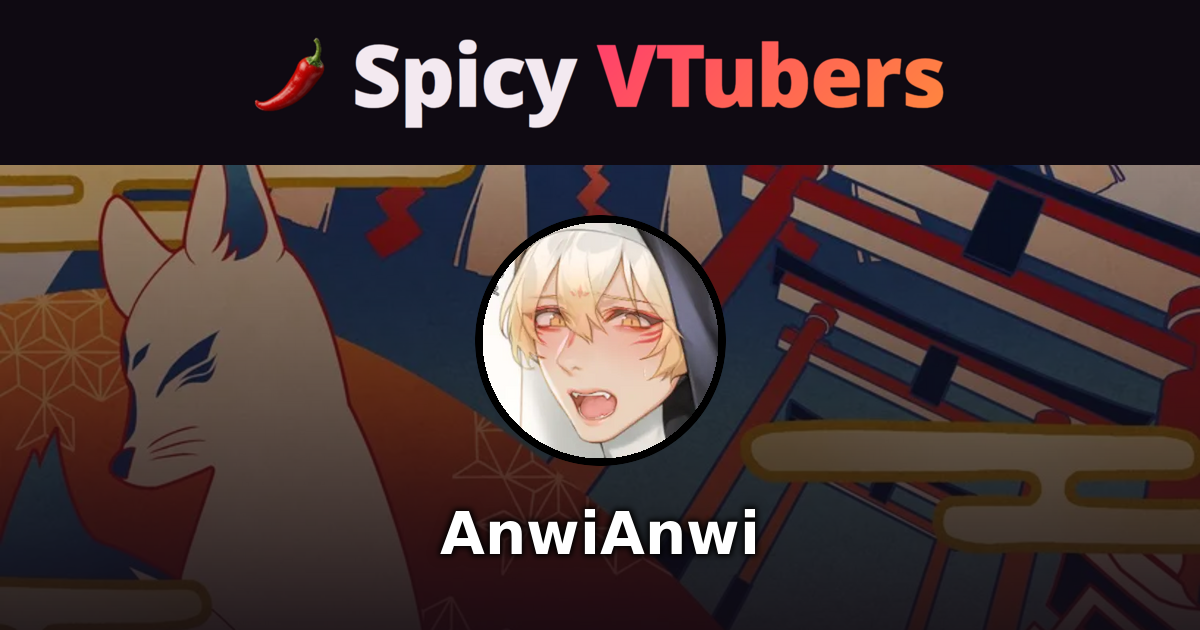
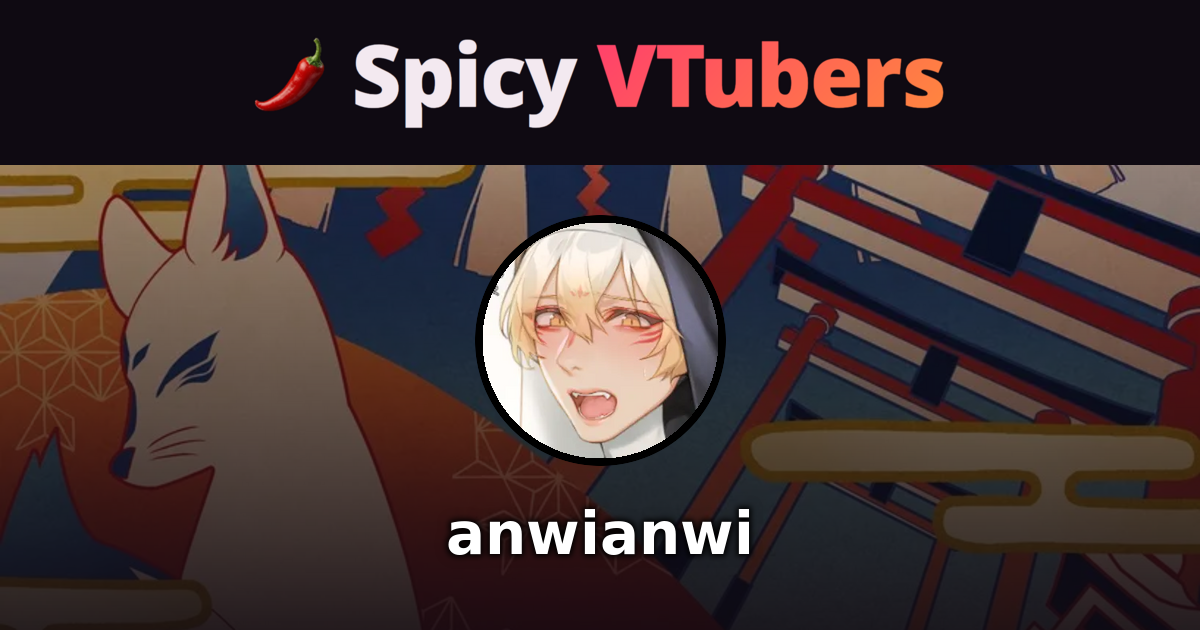
16

Changed region(s): [[0.4933, 0.8143, 0.6475, 0.9048], [0.37, 0.8143, 0.4008, 0.9048]]

diff --git a/c/veiledladyvt/index.html b/c/veiledladyvt/index.html
@@ -3,39 +3,33 @@
 <head>
 <meta charset="UTF-8">
 <meta name="viewport" content="width=device-width, initial-scale=1.0">
-<title>bunyy2b — Spicy VTubers</title>
-<meta name="description" content="Snowbunny doing sillybunny things ❄ 🐰
-My accent is from the land of cute (snow)bunnies.
-Streaming on 18:00 (UTC)/ 14:00 (EDT) 5 times a week (trying, no…">
-<link rel="canonical" href="https://spicyvtubers.com/c/bunyy2b/">
+<title>VeiledLadyVT — Spicy VTubers</title>
+<meta name="description" content="Veiled Lady | 𝕸𝖔𝖙𝖍𝖊𝖗 𝖔𝖋 𝖁𝖆𝖒𝖕𝖎𝖗𝖊𝖘 | Lady of the Sanguine Shrine and professional sleepyhead 🕸🩸🌑">
+<link rel="canonical" href="https://spicyvtubers.com/c/veiledladyvt/">
 
 <!-- Open Graph -->
 <meta property="og:type" content="profile">
 <meta property="og:site_name" content="Spicy VTubers">
-<meta property="og:title" content="bunyy2b — Spicy VTubers">
-<meta property="og:description" content="Snowbunny doing sillybunny things ❄ 🐰
-My accent is from the land of cute (snow)bunnies.
-Streaming on 18:00 (UTC)/ 14:00 (EDT) 5 times a week (trying, no…">
-<meta property="og:url" content="https://spicyvtubers.com/c/bunyy2b/">
-<meta property="og:image" content="https://spicyvtubers.com/c/bunyy2b/og-image.png">
+<meta property="og:title" content="VeiledLadyVT — Spicy VTubers">
+<meta property="og:description" content="Veiled Lady | 𝕸𝖔𝖙𝖍𝖊𝖗 𝖔𝖋 𝖁𝖆𝖒𝖕𝖎𝖗𝖊𝖘 | Lady of the Sanguine Shrine and professional sleepyhead 🕸🩸🌑">
+<meta property="og:url" content="https://spicyvtubers.com/c/veiledladyvt/">
+<meta property="og:image" content="https://spicyvtubers.com/c/veiledladyvt/og-image.png">
 <meta property="og:image:width" content="1200">
 <meta property="og:image:height" content="630">
 
 <!-- Twitter Card -->
 <meta name="twitter:card" content="summary_large_image">
 <meta name="twitter:site" content="@Spicy_VTubers">
-<meta name="twitter:title" content="bunyy2b — Spicy VTubers">
-<meta name="twitter:description" content="Snowbunny doing sillybunny things ❄ 🐰
-My accent is from the land of cute (snow)bunnies.
-Streaming on 18:00 (UTC)/ 14:00 (EDT) 5 times a week (trying, no…">
-<meta name="twitter:image" content="https://spicyvtubers.com/c/bunyy2b/og-image.png">
+<meta name="twitter:title" content="VeiledLadyVT — Spicy VTubers">
+<meta name="twitter:description" content="Veiled Lady | 𝕸𝖔𝖙𝖍𝖊𝖗 𝖔𝖋 𝖁𝖆𝖒𝖕𝖎𝖗𝖊𝖘 | Lady of the Sanguine Shrine and professional sleepyhead 🕸🩸🌑">
+<meta name="twitter:image" content="https://spicyvtubers.com/c/veiledladyvt/og-image.png">
 
 <link rel="icon" type="image/x-icon" href="/favicon.ico">
 <link rel="icon" type="image/png" sizes="32x32" href="/favicon-32x32.png">
 <link rel="icon" type="image/png" sizes="16x16" href="/favicon-16x16.png">
 <link rel="apple-touch-icon" sizes="180x180" href="/apple-touch-icon.png">
 <link rel="stylesheet" href="/style102.css">
-<script type="application/ld+json">{"@context":"https://schema.org","@type":"Person","name":"bunyy2b","url":"https://spicyvtubers.com/c/bunyy2b/","image":"https://spicyvtubers.com/avatarsLarge/bunyy2b.webp","sameAs":["https://twitch.com/bunyy2b","https://x.com/blackedtwob","https://blacked2b.carrd.co/"]}</script>
+<script type="application/ld+json">{"@context":"https://schema.org","@type":"Person","name":"VeiledLadyVT","url":"https://spicyvtubers.com/c/veiledladyvt/","image":"https://spicyvtubers.com/avatarsLarge/veiledladyvt.webp","sameAs":["https://twitch.com/VeiledLadyVT","https://x.com/veiledladyvt","https://veiledladyvt.carrd.co/"]}</script>
 </head>
 <body>
 
@@ -79,17 +73,15 @@ Streaming on 18:00 (UTC)/ 14:00 (EDT) 5 times a week (trying, no…">
   <section class="creator-profile">
     <div class="creator-card">
       <div class="creator-profile-card">
-        <div class="creator-profile-head">
-          <span class="avatar avatar-xl" data-initials="B">
-            <img class="avatar-img is-loaded" src="/avatarsLarge/bunyy2b.webp" alt="" decoding="async">
+        <div class="creator-profile-head has-banner" style="--banner-image: url('/banners/veiledladyvt.webp')">
+          <span class="avatar avatar-xl" data-initials="V">
+            <img class="avatar-img is-loaded" src="/avatarsLarge/veiledladyvt.webp" alt="" decoding="async">
           </span>
-          <h1 class="channel-name">bunyy2b</h1>
+          <h1 class="channel-name">VeiledLadyVT</h1>
         </div>
-        <div class="spice-handles"><a class="spice-pill" data-icon="fansly" href="https://fansly.com/blacked2b/spicy" target="_blank" rel="noopener noreferrer" title="Fansly: blacked2b">blacked2b</a><a class="spice-pill" data-icon="patreon" href="https://www.patreon.com/bunyy2b" target="_blank" rel="noopener noreferrer" title="Patreon: bunyy2b">bunyy2b</a><a class="x-pill" data-icon="x" href="https://x.com/blackedtwob" target="_blank" rel="noopener noreferrer" title="Twitter: blackedtwob">blackedtwob</a></div>
+        <div class="spice-handles"><a class="spice-pill" data-icon="patreon" href="https://www.patreon.com/ladylolth" target="_blank" rel="noopener noreferrer" title="Patreon: ladylolth">ladylolth</a><a class="x-pill" data-icon="x" href="https://x.com/veiledladyvt" target="_blank" rel="noopener noreferrer" title="Twitter: veiledladyvt">veiledladyvt</a></div>
       </div>
-      <div class="creator-bio-panel"><div class="bio-content">Snowbunny doing sillybunny things ❄ 🐰
-My accent is from the land of cute (snow)bunnies.
-Streaming on 18:00 (UTC)/ 14:00 (EDT) 5 times a week (trying, no promises🖤)</div><div class="bio-actions"><a class="bio-socials-link" href="https://blacked2b.carrd.co/" target="_blank" rel="noopener noreferrer"><svg viewBox="0 0 24 24" aria-hidden="true"><path d="M3.9 12c0-1.71 1.39-3.1 3.1-3.1h4V7H7c-2.76 0-5 2.24-5 5s2.24 5 5 5h4v-1.9H7c-1.71 0-3.1-1.39-3.1-3.1zM8 13h8v-2H8v2zm9-6h-4v1.9h4c1.71 0 3.1 1.39 3.1 3.1s-1.39 3.1-3.1 3.1h-4V17h4c2.76 0 5-2.24 5-5s-2.24-5-5-5z"/></svg>Socials</a><a class="bio-channel-link" href="https://twitch.com/bunyy2b" target="_blank" rel="noopener noreferrer"><svg viewBox="0 0 24 24" aria-hidden="true"><path d="M14 3h7v7h-2V6.41l-9.29 9.3-1.42-1.42 9.3-9.29H14V3zM5 5h6v2H7v10h10v-4h2v6H5V5z"/></svg>Twitch</a></div></div>
+      <div class="creator-bio-panel"><div class="bio-content">Veiled Lady | 𝕸𝖔𝖙𝖍𝖊𝖗 𝖔𝖋 𝖁𝖆𝖒𝖕𝖎𝖗𝖊𝖘 | Lady of the Sanguine Shrine and professional sleepyhead 🕸🩸🌑</div><div class="bio-actions"><a class="bio-socials-link" href="https://veiledladyvt.carrd.co/" target="_blank" rel="noopener noreferrer"><svg viewBox="0 0 24 24" aria-hidden="true"><path d="M3.9 12c0-1.71 1.39-3.1 3.1-3.1h4V7H7c-2.76 0-5 2.24-5 5s2.24 5 5 5h4v-1.9H7c-1.71 0-3.1-1.39-3.1-3.1zM8 13h8v-2H8v2zm9-6h-4v1.9h4c1.71 0 3.1 1.39 3.1 3.1s-1.39 3.1-3.1 3.1h-4V17h4c2.76 0 5-2.24 5-5s-2.24-5-5-5z"/></svg>Socials</a><a class="bio-channel-link" href="https://twitch.com/VeiledLadyVT" target="_blank" rel="noopener noreferrer"><svg viewBox="0 0 24 24" aria-hidden="true"><path d="M14 3h7v7h-2V6.41l-9.29 9.3-1.42-1.42 9.3-9.29H14V3zM5 5h6v2H7v10h10v-4h2v6H5V5z"/></svg>Twitch</a></div></div>
     </div>
   </section>
 </main>

diff --git a/c/anwianwi/index.html b/c/anwianwi/index.html
@@ -3,14 +3,14 @@
 <head>
 <meta charset="UTF-8">
 <meta name="viewport" content="width=device-width, initial-scale=1.0">
-<title>AnwiAnwi — Spicy VTubers</title>
+<title>anwianwi — Spicy VTubers</title>
 <meta name="description" content="んふふ～♡　どこ見てるのかしら？Recently summoned by a lonely soul; though upon meeting the modern folk he found himself horrified by their terrible eating habits, their…">
 <link rel="canonical" href="https://spicyvtubers.com/c/anwianwi/">
 
 <!-- Open Graph -->
 <meta property="og:type" content="profile">
 <meta property="og:site_name" content="Spicy VTubers">
-<meta property="og:title" content="AnwiAnwi — Spicy VTubers">
+<meta property="og:title" content="anwianwi — Spicy VTubers">
 <meta property="og:description" content="んふふ～♡　どこ見てるのかしら？Recently summoned by a lonely soul; though upon meeting the modern folk he found himself horrified by their terrible eating habits, their…">
 <meta property="og:url" content="https://spicyvtubers.com/c/anwianwi/">
 <meta property="og:image" content="https://spicyvtubers.com/c/anwianwi/og-image.png">
@@ -20,7 +20,7 @@
 <!-- Twitter Card -->
 <meta name="twitter:card" content="summary_large_image">
 <meta name="twitter:site" content="@Spicy_VTubers">
-<meta name="twitter:title" content="AnwiAnwi — Spicy VTubers">
+<meta name="twitter:title" content="anwianwi — Spicy VTubers">
 <meta name="twitter:description" content="んふふ～♡　どこ見てるのかしら？Recently summoned by a lonely soul; though upon meeting the modern folk he found himself horrified by their terrible eating habits, their…">
 <meta name="twitter:image" content="https://spicyvtubers.com/c/anwianwi/og-image.png">
 
@@ -29,7 +29,7 @@
 <link rel="icon" type="image/png" sizes="16x16" href="/favicon-16x16.png">
 <link rel="apple-touch-icon" sizes="180x180" href="/apple-touch-icon.png">
 <link rel="stylesheet" href="/style102.css">
-<script type="application/ld+json">{"@context":"https://schema.org","@type":"Person","name":"AnwiAnwi","url":"https://spicyvtubers.com/c/anwianwi/","image":"https://spicyvtubers.com/avatarsLarge/anwianwi.webp","sameAs":["https://twitch.com/AnwiAnwi","https://x.com/anwianwii","https://x.com/safe4anwi","https://linktr.ee/AnwiAnwi"]}</script>
+<script type="application/ld+json">{"@context":"https://schema.org","@type":"Person","name":"anwianwi","url":"https://spicyvtubers.com/c/anwianwi/","image":"https://spicyvtubers.com/avatarsLarge/anwianwi.webp","sameAs":["https://twitch.com/anwianwi","https://x.com/anwianwii","https://x.com/safe4anwi","https://linktr.ee/AnwiAnwi"]}</script>
 </head>
 <body>
 
@@ -77,11 +77,11 @@
           <span class="avatar avatar-xl" data-initials="A">
             <img class="avatar-img is-loaded" src="/avatarsLarge/anwianwi.webp" alt="" decoding="async">
           </span>
-          <h1 class="channel-name">AnwiAnwi</h1>
+          <h1 class="channel-name">anwianwi</h1>
         </div>
         <div class="spice-handles"><a class="spice-pill" data-icon="fansly" href="https://fansly.com/anwianwi/spicy" target="_blank" rel="noopener noreferrer" title="Fansly: anwianwi">anwianwi</a><a class="x-pill" data-icon="x" href="https://x.com/anwianwii" target="_blank" rel="noopener noreferrer" title="Twitter: anwianwii">anwianwii</a><a class="x-pill" data-icon="x" href="https://x.com/safe4anwi" target="_blank" rel="noopener noreferrer" title="Twitter: safe4anwi">safe4anwi</a></div>
       </div>
-      <div class="creator-bio-panel"><div class="bio-content">んふふ～♡　どこ見てるのかしら？Recently summoned by a lonely soul; though upon meeting the modern folk he found himself horrified by their terrible eating habits, their lack of friends, and lack of adult supervision; he has now decided to stay and watch over the humans.</div><div class="bio-actions"><a class="bio-socials-link" href="https://linktr.ee/AnwiAnwi" target="_blank" rel="noopener noreferrer"><svg viewBox="0 0 24 24" aria-hidden="true"><path d="M3.9 12c0-1.71 1.39-3.1 3.1-3.1h4V7H7c-2.76 0-5 2.24-5 5s2.24 5 5 5h4v-1.9H7c-1.71 0-3.1-1.39-3.1-3.1zM8 13h8v-2H8v2zm9-6h-4v1.9h4c1.71 0 3.1 1.39 3.1 3.1s-1.39 3.1-3.1 3.1h-4V17h4c2.76 0 5-2.24 5-5s-2.24-5-5-5z"/></svg>Socials</a><a class="bio-channel-link" href="https://twitch.com/AnwiAnwi" target="_blank" rel="noopener noreferrer"><svg viewBox="0 0 24 24" aria-hidden="true"><path d="M14 3h7v7h-2V6.41l-9.29 9.3-1.42-1.42 9.3-9.29H14V3zM5 5h6v2H7v10h10v-4h2v6H5V5z"/></svg>Twitch</a></div></div>
+      <div class="creator-bio-panel"><div class="bio-content">んふふ～♡　どこ見てるのかしら？Recently summoned by a lonely soul; though upon meeting the modern folk he found himself horrified by their terrible eating habits, their lack of friends, and lack of adult supervision; he has now decided to stay and watch over the humans.</div><div class="bio-actions"><a class="bio-socials-link" href="https://linktr.ee/AnwiAnwi" target="_blank" rel="noopener noreferrer"><svg viewBox="0 0 24 24" aria-hidden="true"><path d="M3.9 12c0-1.71 1.39-3.1 3.1-3.1h4V7H7c-2.76 0-5 2.24-5 5s2.24 5 5 5h4v-1.9H7c-1.71 0-3.1-1.39-3.1-3.1zM8 13h8v-2H8v2zm9-6h-4v1.9h4c1.71 0 3.1 1.39 3.1 3.1s-1.39 3.1-3.1 3.1h-4V17h4c2.76 0 5-2.24 5-5s-2.24-5-5-5z"/></svg>Socials</a><a class="bio-channel-link" href="https://twitch.com/anwianwi" target="_blank" rel="noopener noreferrer"><svg viewBox="0 0 24 24" aria-hidden="true"><path d="M14 3h7v7h-2V6.41l-9.29 9.3-1.42-1.42 9.3-9.29H14V3zM5 5h6v2H7v10h10v-4h2v6H5V5z"/></svg>Twitch</a></div></div>
     </div>
   </section>
 </main>
